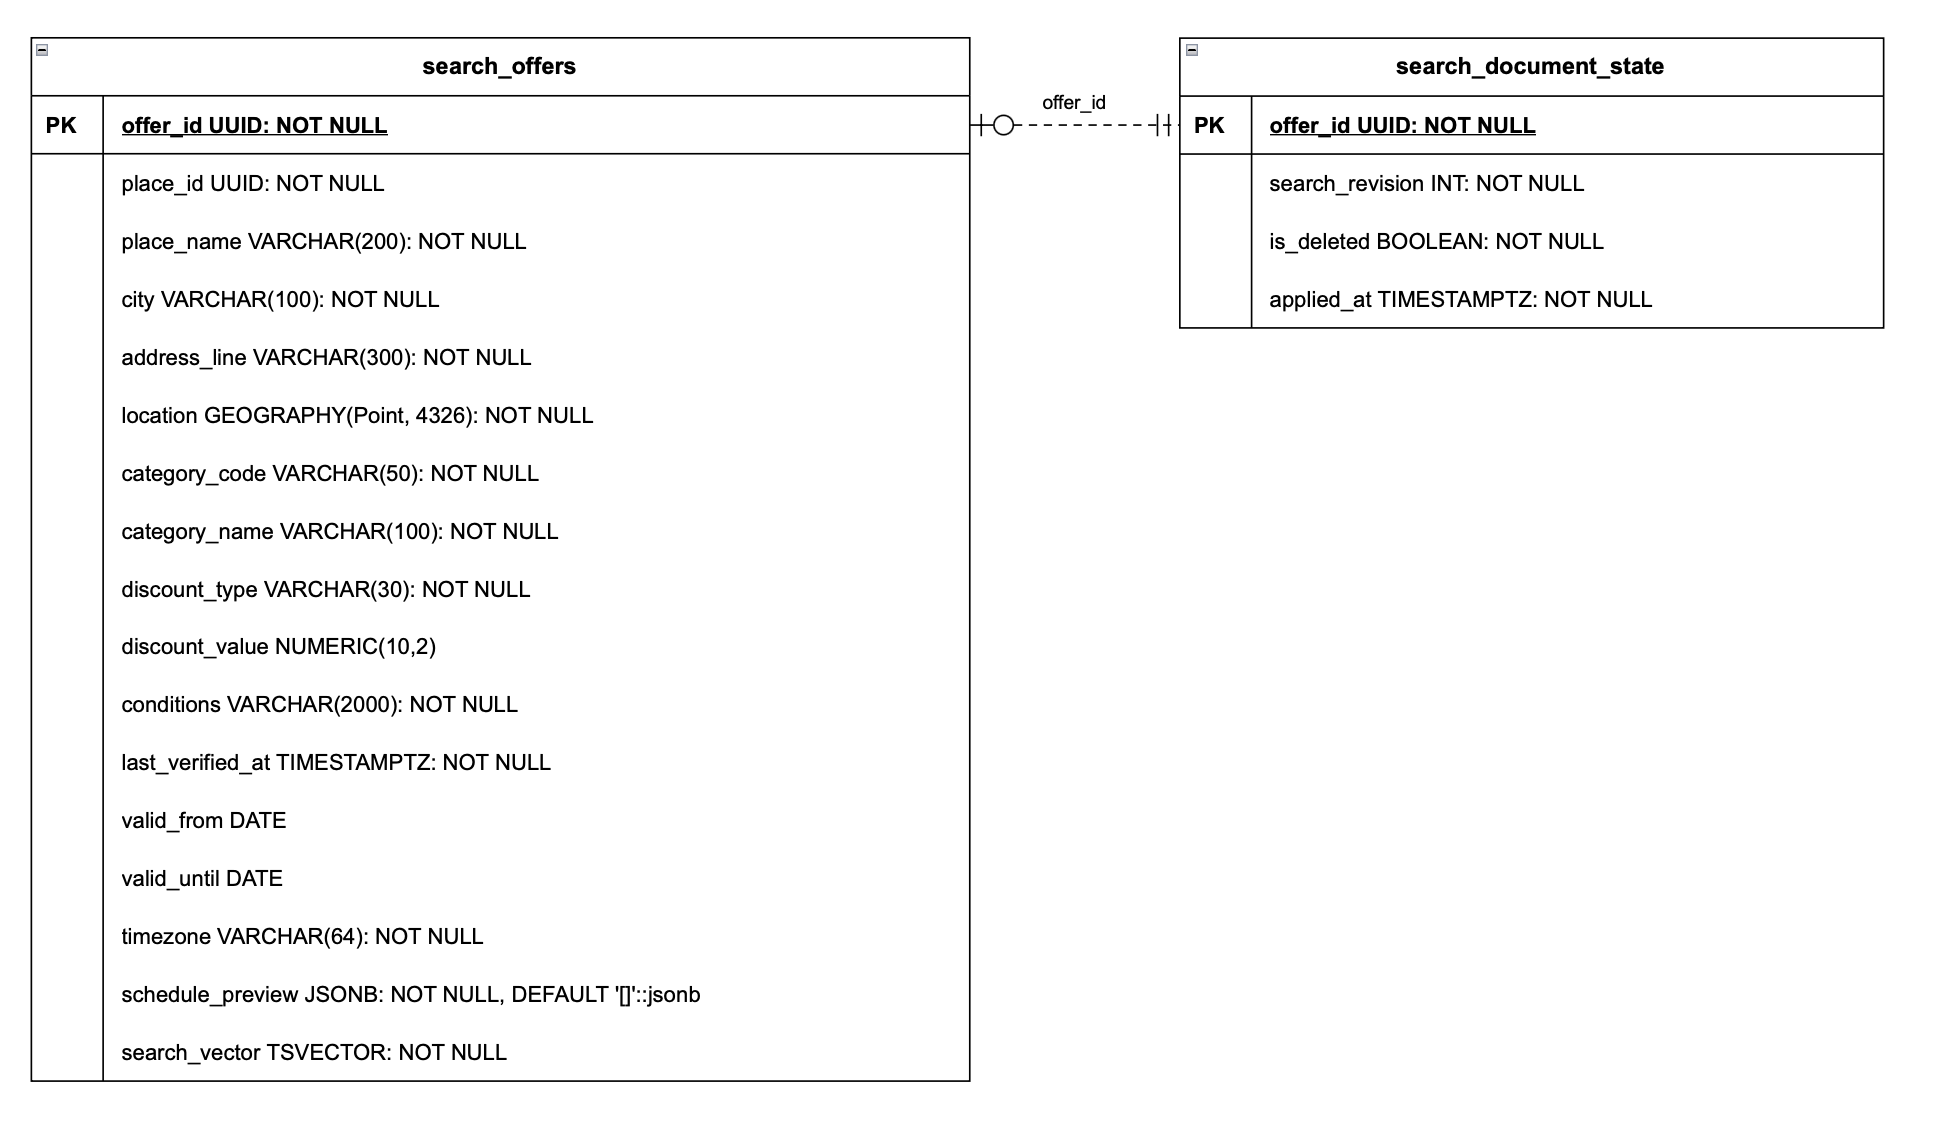
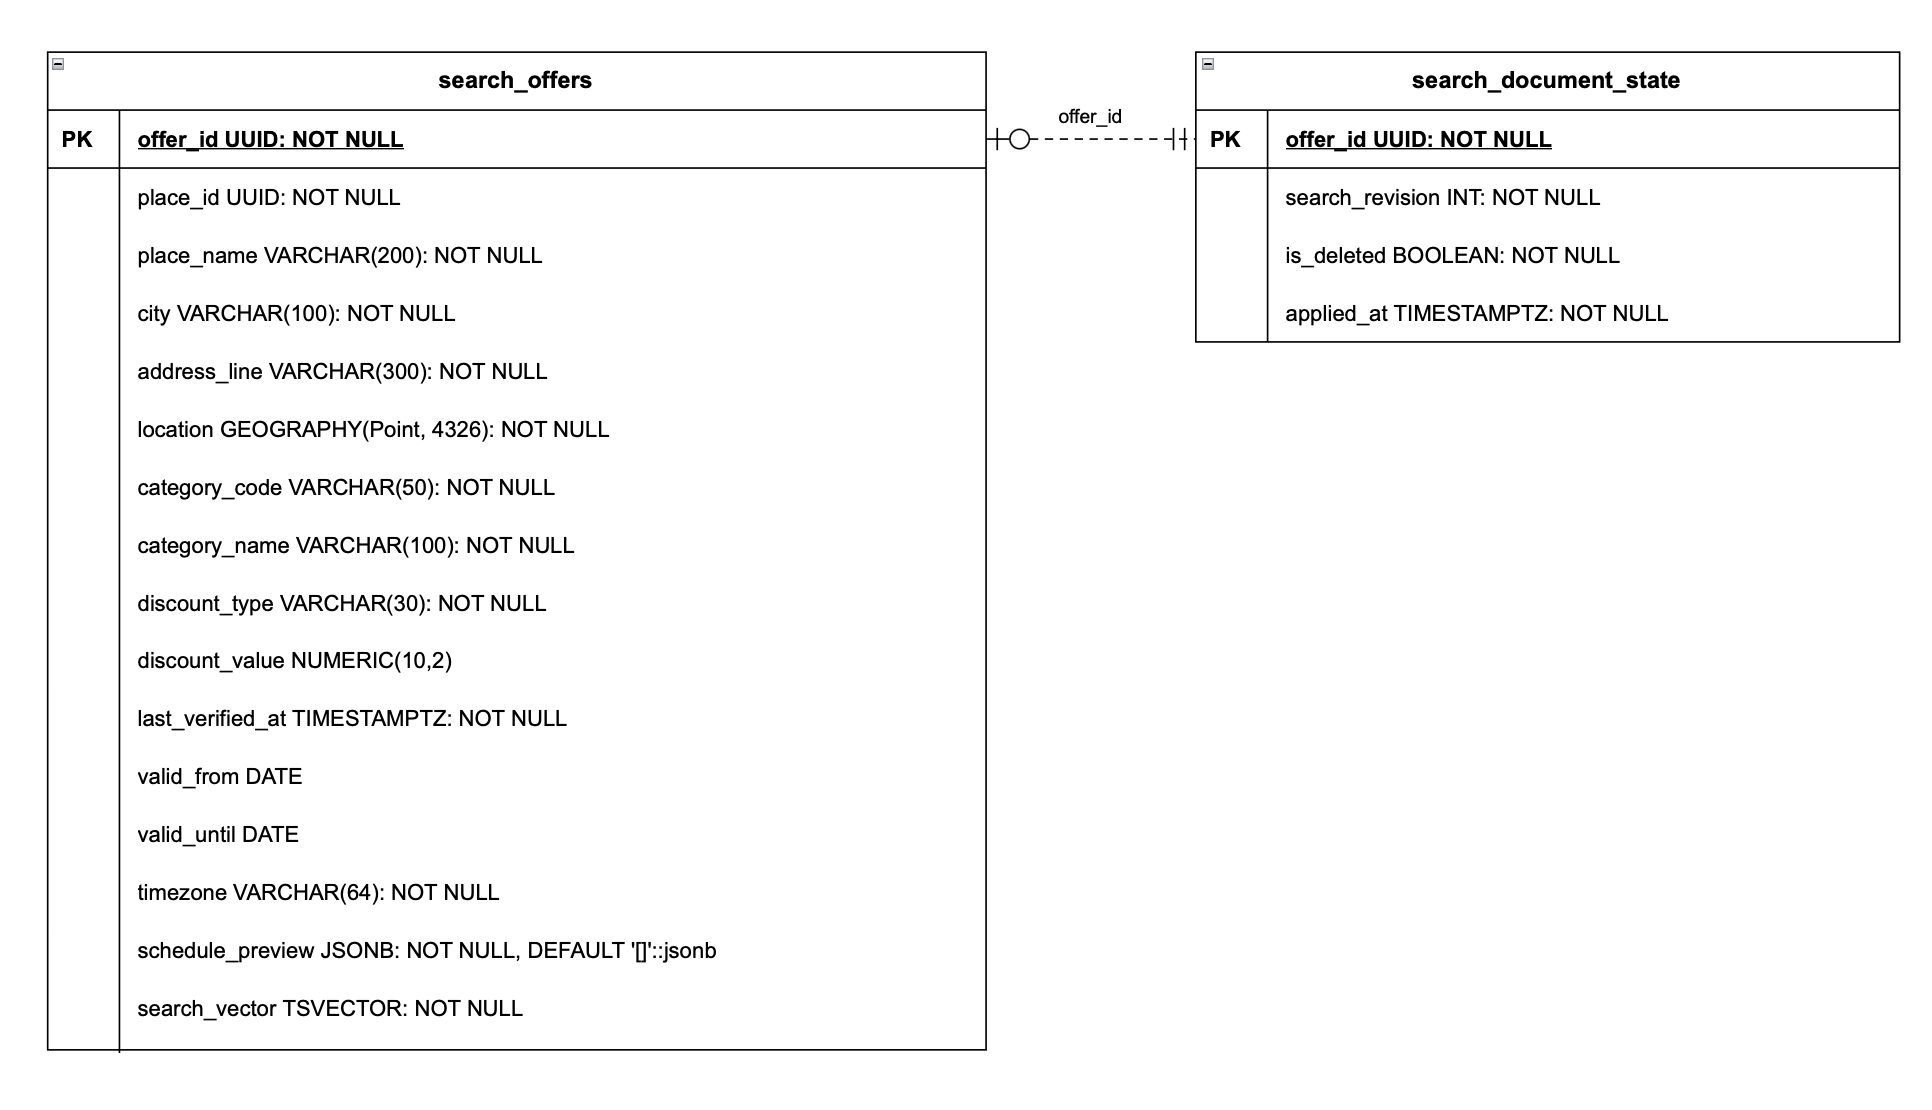
docs: simplify search data model and align constraints with catalog

Changed region(s): [[0.0, 0.0306, 0.9938, 0.9495], [0.9627, 0.2757, 0.9938, 0.3063]]

diff --git a/data-model/SEARCH-DATA-MODEL.md b/data-model/SEARCH-DATA-MODEL.md
@@ -21,14 +21,13 @@ Catalog Service остаётся источником данных и выдаё
 | `address_line` | `varchar(300)` | `NOT NULL`; непустое значение | Адрес места для поиска и карточки |
 | `location` | `geography(Point, 4326)` | `NOT NULL`; координаты WGS 84, широта от −90 до 90, долгота от −180 до 180 | Геопоиск, область карты и вычисление расстояния |
 | `category_code` | `varchar(50)` | `NOT NULL`; стабильный код категории Catalog в формате `^[a-z][a-z0-9_]*$` | Фильтрация по категории |
-| `category_name` | `varchar(100)` | `NOT NULL`; непустое значение | Название категории для отображения |
-| `discount_type` | `varchar(30)` | `NOT NULL`; одно из значений: `PERCENT`, `FIXED_AMOUNT`, `SPECIAL_PRICE`, `FREE_ITEM`, `OTHER` | Интерпретация размера скидки и фильтрация |
-| `discount_value` | `numeric(10,2)` | Допускает `NULL`; для `PERCENT` — больше 0 и не больше 100; для `FIXED_AMOUNT` и `SPECIAL_PRICE` — больше 0; для остальных типов — `NULL` | Процент, сумма скидки или специальная цена |
-| `conditions` | `varchar(2000)` | `NOT NULL`; непустое значение; исходный текст не обрезается при сохранении | Условия предложения для текстового поиска и превью |
+| `category_name` | `varchar(100)` | `NOT NULL`, как у `categories.name` в Catalog | Название категории для отображения |
+| `discount_type` | `discount_type` (ENUM) | `NOT NULL`, по умолчанию `OTHER`; значения как в Catalog: `PERCENT`, `FIXED_AMOUNT`, `SPECIAL_PRICE`, `FREE_ITEM`, `OTHER` | Интерпретация размера скидки и фильтрация |
+| `discount_value` | `numeric(10,2)` | Как в Catalog: `NULL` допустим для любого типа; заданное значение для `PERCENT` — больше 0 и не больше 100, для `FIXED_AMOUNT` и `SPECIAL_PRICE` — больше 0; для остальных типов — только `NULL` | Процент, сумма скидки или специальная цена |
 | `last_verified_at` | `timestamptz` | `NOT NULL`; передаётся Catalog | Дата последнего подтверждения актуальности |
 | `valid_from` | `date` | Допускает `NULL`; если задано, предложение не включается в выдачу раньше этой даты | Начало общего периода действия |
 | `valid_until` | `date` | Допускает `NULL`; при заданных обеих датах не раньше `valid_from` | Последний день общего периода действия включительно |
-| `timezone` | `varchar(64)` | `NOT NULL`; корректный идентификатор IANA, например `Europe/Moscow` | Часовой пояс места для проверки сроков |
+| `timezone` | `varchar(64)` | `NOT NULL`; SQL проверяет формат как в Catalog: `^[A-Za-z]+(/[A-Za-z0-9_+-]+)+$` или `UTC`; существование идентификатора IANA проверяет consumer | Часовой пояс места для проверки сроков |
 | `schedule_preview` | `jsonb` | `NOT NULL`, по умолчанию `[]`; массив групп дней и временных интервалов, правила ниже | Структурированное расписание для карточки списка |
 | `search_vector` | `tsvector` | `NOT NULL`; формируется локально из текстовых полей | Подготовленное представление текста для полнотекстового поиска |
 
@@ -36,12 +35,14 @@ Catalog Service остаётся источником данных и выдаё
 
 - **Единица хранения.** Одна запись — одно предложение. В списке и на карте предложения группируются по `place_id`; пагинация карточек мест выполняется по местам.
 - **Идентификаторы.** `offer_id` и `place_id` приходят из Catalog. Внешних ключей между БД сервисов нет; нужные поля места и категории включены в поисковую запись.
+- **Ограничения общих полей.** Проверки названия места, города, адреса, формата часового пояса и кода категории, типа и значения скидки, порядка дат совпадают с SQL Catalog. Для JSONB-расписания и состояния синхронизации предусмотрены собственные проверки Search.
 - **Категории.** `category_code` — стабильное значение для фильтра API, `category_name` — отображаемое название. Например, `food` и «Еда».
-- **Краткая карточка.** Показываются название, категория, адрес, скидка, превью условий, расписание, дата проверки и при наличии дата окончания. Полная карточка открывается через Catalog. Текст `conditions` сохраняется целиком, а frontend ограничивает число видимых строк.
+- **Краткая карточка.** Показываются название места, категория, адрес, размер или тип выгоды, краткое расписание, дата проверки и при наличии дата окончания. Условия и отдельное краткое описание акции в выдаче не отображаются. Полная страница места со всеми доступными предложениями, условиями и расписанием открывается через Catalog.
+- **Выбор предложений.** В Search хранятся все активные предложения места. Для превью выбираются до двух предложений, подходящих по фильтрам и общему сроку действия: сначала недавно проверенные (`last_verified_at DESC`), при равенстве — по `offer_id ASC`. Текстовый запрос ищет место и не меняет порядок его предложений.
 - **Расстояние.** Вычисляется относительно точки пользователя; отдельным столбцом не хранится.
 - **Активность.** Столбца `status` нет: при событии о неактивном предложении запись удаляется. Дополнительно каждый поисковый запрос проверяет общий срок действия.
 - **Даты и часовой пояс.** Сравнение выполняется с текущей датой места в `timezone`; день `valid_until` включён в срок. `NULL` означает отсутствие соответствующей границы. Это исключает будущие и истёкшие предложения даже при задержке смены статуса.
-- **Данные полной карточки.** Источник предложения, закрытый `source_note`, связи с заявками и модерацией, `organization_id` и служебные даты строк Catalog в Search не копируются.
+- **Данные полной карточки.** Полные условия `conditions` остаются в Catalog и не входят в поисковую запись или контракт событий для Search. Источник предложения, закрытый `source_note`, связи с заявками и модерацией, `organization_id` и служебные даты строк Catalog в Search также не копируются.
 
 **Расписание — `schedule_preview`**
 
@@ -84,11 +85,10 @@ Catalog Service остаётся источником данных и выдаё
 | Исходные поля | Вес | Назначение |
 |---|---|---|
 | `place_name` | `A` | Наибольший приоритет совпадений в названии места |
-| `conditions` | `B` | Поиск конкретных предложений, например по словам «маникюр» или «напитки» |
-| `city`, `address_line` | `C` | Поиск по городу и адресу |
+| `city`, `address_line` | `B` | Поиск по городу и адресу |
 
 - **Формирование.** PostgreSQL автоматически строит и обновляет вектор в вычисляемом хранимом столбце (`GENERATED ALWAYS AS ... STORED`) с помощью `to_tsvector` и весов. В событии Catalog передаёт текстовые поля; при записи Search не задаёт `search_vector` вручную.
-- **Сопоставление.** Конфигурация обработки текста и запроса должна совпадать. Категория применяется отдельным фильтром по `category_code`.
+- **Сопоставление.** Текстовый поиск выполняется только по названию места, городу и адресу. Конфигурация обработки текста и запроса должна совпадать. Категория применяется отдельным фильтром по `category_code`.
 - **Индексы.** Для полнотекстового поиска планируется GIN по `search_vector`, для геопоиска — GiST по `location`.
 
 SQL использует конфигурацию `pg_catalog.russian`; её же нужно указывать при построении поискового запроса. В БД проверяется, что `schedule_preview` — массив. Полную структуру расписания, корректность часового пояса IANA и исходных координат проверяет consumer до сохранения.
